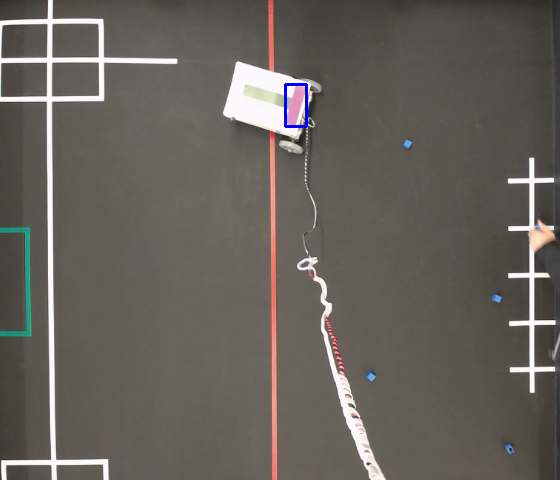
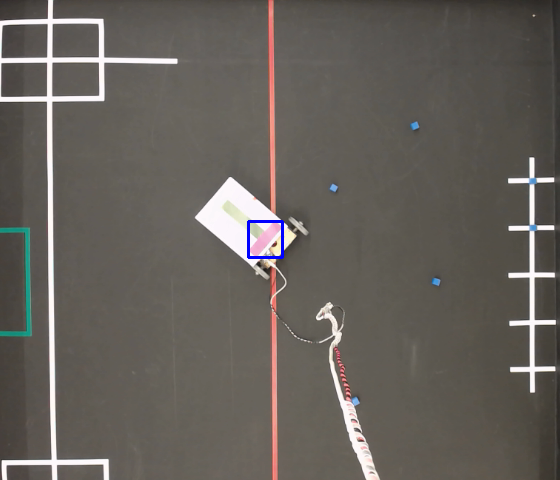
It drives

diff --git a/DetectAndMap/streamNoSerial.py b/DetectAndMap/streamNoSerial.py
@@ -3,10 +3,9 @@ import numpy as np
 import math
 import serial  # Serial imported for Serial communication
 import time  # Required to use delay functions
-import keyboard
 print("Imports done")
 cap = cv2.VideoCapture(1)
-ArduinoSerial = serial.Serial('com3', 9600)  # Create Serial port object called arduinoSerialData
+#ArduinoSerial = serial.Serial('com3', 9600)  # Create Serial port object called arduinoSerialData
 print("Capture started")
 time.sleep(2)  # wait for 2 secounds for the communication to get established
 
@@ -65,19 +64,14 @@ errorAngleOld = 0
 errorAngleOldOld = 0
 timeOld = 0
 deltaT = 1
-kd = 0.0001
+kd = 0.01
 kp = 0.01
 timeLastCell = time.time()
+
 count = 0
-
-#start on space
-while not keyboard.is_pressed(' '):
-    pass
-
 while(1):
     # Take each frame
     _, frame = cap.read()
-    print()
     #1080*1920*3
     frame = frame[0:480, 0:560]
     #frameCopy = frame.copy()
@@ -100,7 +94,7 @@ while(1):
         if(len(coordMines)==0):
             continue
         coordMines.append((0,270))
-        coordMines.append((15,75))
+        coordMines.append((30,60))
         firstTime = False
 
     #crop to all except safe zone
@@ -112,8 +106,8 @@ while(1):
     
     if len(goldF)==0 or len(greenF)==0:
         print(str(len(goldF)) + "  " + str(len(greenF)))
-        #(count % 5 == 0):
-            #cv2.imwrite("frame" + str(count/5)+ ".png", frame)
+        if(count % 5 == 0):
+            cv2.imwrite("frame" + str(count/5)+ ".png", frame)
         count+=1
         continue
     goldF = goldF[0]
@@ -125,9 +119,9 @@ while(1):
 
     #angle with respect to horizontal, positive as anticlockwise. Counterintuitive sign in expression bc y axis inverted
     alpha = math.degrees(math.atan2(-goldC[1]+greenC[1],goldC[0]-greenC[0]))
-    #print("Angle and coordinates of the robot")
-    #print(alpha)
-    #print(greenC)
+    print("Angle and coordinates of the robot")
+    print(alpha)
+    print(greenC)
 
     targetMine = coordMines[cellsChecked]
 
@@ -140,13 +134,14 @@ while(1):
     print("ErrorAngle")
     print(errorAngle)
 
+
     PD = 0
     #makes no sense to try and correct course while driving
-    if errorAngle > 30:
+    if errorAngle > 45:
         print("Turn left")
         PD = 254
         #ArduinoSerial.write((254).to_bytes(1, 'big'))
-    elif errorAngle < -30:
+    elif errorAngle < -45:
         print("Turn right")
         PD = 255
         #ArduinoSerial.write((255).to_bytes(1, 'big'))
@@ -154,42 +149,35 @@ while(1):
         deriv = (errorAngle-errorAngleOldOld)/(2*deltaT)
         PD = kd * deriv + kp * errorAngle 
         #transform value to 0 to 200
-        #thus 100 means straight, and above 100 is to left
-        PD = 100 + 100*PD
-        if PD < 0:
-            PD = 0
-        elif PD > 251:
-            PD = 251
+        print("Value passed to Arduino")
+        print(100 + 200*PD) #thus 100 means straight, and above 100 is to left
+        PD = 100 + 200*PD
 
+    if PD < 0:
+        PD = 0
+    elif PD > 255:
+        PD = 251
 
     #if Arduino detect that it caught the cell
-    if ArduinoSerial.in_waiting:
-        if ArduinoSerial.readline().decode('utf-8') == 0:
-            cellsChecked += 1
-            timeLastCell = time.time()
+    #if ArduinoSerial.in_waiting:
+     #   if ArduinoSerial.readline().decode('utf-8') == 0:
+    #        cellsChecked += 1
+    #        timeLastCell = time.time()
 
     #or if has been looking for ages, pass to next
     if (time.time() - timeLastCell) > 30:
         timeLastCell = time.time()
-        if cellsChecked < len(coordMines)-1:
-            cellsChecked += 1
+        cellsChecked += 1
 
     #returning back to safe zone. Check whether arrived
     if cellsChecked == (len(coordMines)-2) and goldC[0] < 20 and abs(goldC[1] -270) < 20:
         PD = 253
     #returning back to start zone. Check whether arrived
-    if cellsChecked == (len(coordMines)-1) and abs(goldC[0]-15) < 15 and abs(goldC[1] -75) < 30:
+    if cellsChecked == (len(coordMines)-1) and abs(goldC[0]-30) < 30 and abs(goldC[1] -60) < 30:
         PD = 252
-
-    #for development purposes be able to stop it remotely
-    if keyboard.is_pressed('p'):
         PD = 252
-
-    print("Value passed to Arduino")
-    print(PD) 
-    ArduinoSerial.write(round(PD).to_bytes(1, 'big'))
-
-    time.sleep(0.1)
+    #ArduinoSerial.write(round(PD).to_bytes(1, 'big'))
+    time.sleep(0.2)
 
     deltaT = time.time()-timeOld
     timeOld = time.time()
@@ -197,7 +185,7 @@ while(1):
 
     cv2.imshow('frame',frame)
     # Press Q on keyboard to  exit
-    if cv2.waitKey(25) & 0xFF == ord('q') or PD == 252:
+    if cv2.waitKey(25) & 0xFF == ord('q'):
       break
 
 cap.release()

diff --git a/DetectAndMap/getLocation.py b/DetectAndMap/getLocation.py
@@ -1,0 +1,47 @@
+import cv2
+import numpy as np
+import math
+import serial  # Serial imported for Serial communication
+import time  # Required to use delay functions
+print("Imports done")
+cap = cv2.VideoCapture(1)
+print("Capture started")
+time.sleep(2)  # wait for 2 secounds for the communication to get established
+
+# define range of green color in HSV
+#use gimp for color code: 160, 20, 73 for green robot
+#212,81,66 for blue robot
+#area +- 1100
+#208,66,87 for cells or 208,63,88
+#area +- 70 - 260
+#172,80,60 for save zone
+#values light on(light off is more accurate, values in ColorDetectionPicture.py)
+
+firstTime = True
+coordMines=[]
+cellsChecked = 0
+errorAngle = 0
+errorAngleOld = 0
+errorAngleOldOld = 0
+timeOld = 0
+deltaT = 1
+kd = 0.01
+kp = 0.01
+
+count = 0
+while(1):
+    # Take each frame
+    _, frame = cap.read()
+    #1080*1920*3
+    frame = frame[0:480, 0:560]
+    cv2.circle(frame,(0,275), 10, (0,0,255), -1)
+    cv2.circle(frame,(30,60), 10, (0,0,255), -1)
+    
+
+    cv2.imshow('frame',frame)
+    # Press Q on keyboard to  exit
+    if cv2.waitKey(25) & 0xFF == ord('q'):
+      break
+
+cap.release()
+cv2.destroyAllWindows()
